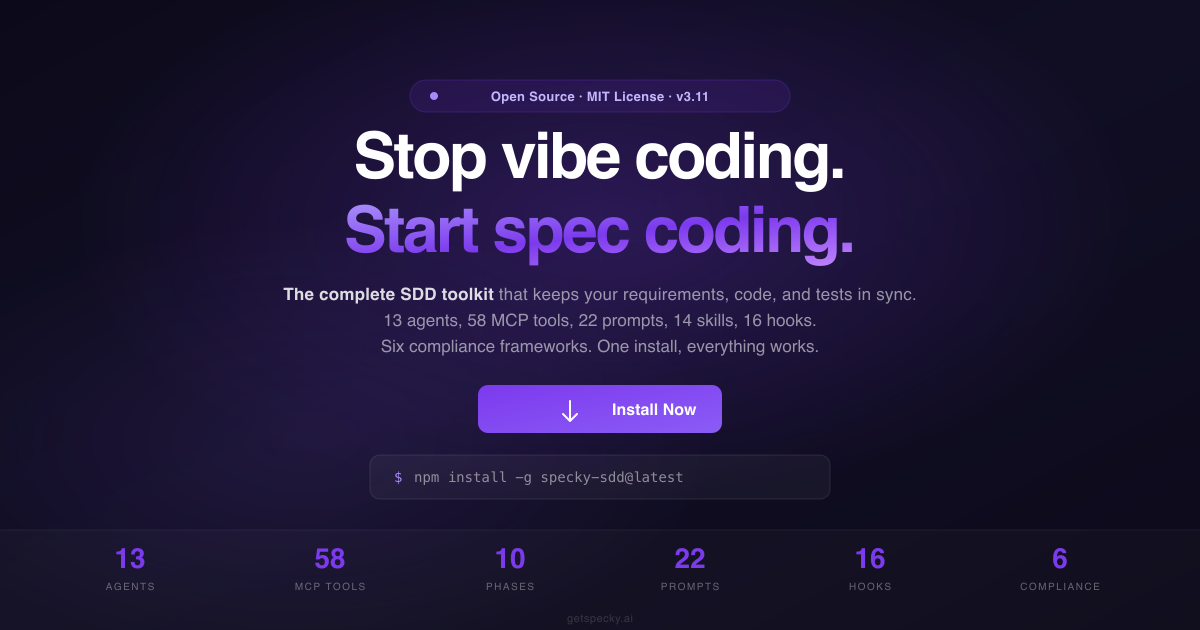
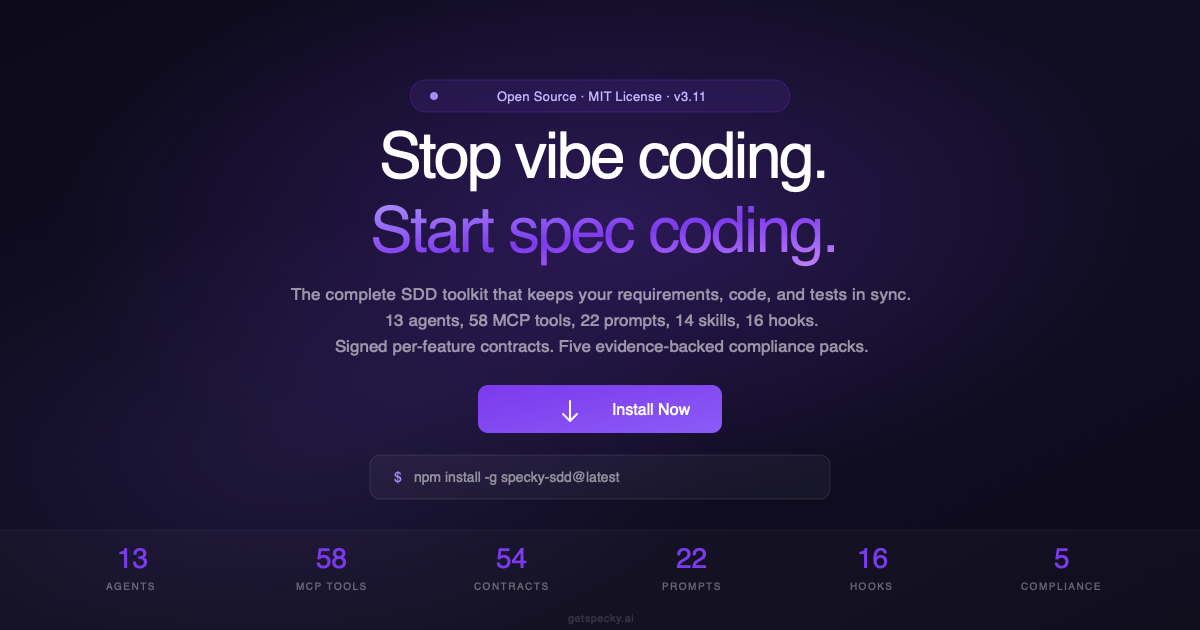
refactor: enhance diagram descriptions for clarity and accuracy in README.md

diff --git a/README.md b/README.md
@@ -839,9 +839,9 @@ All artifacts are saved in [`.specs/NNN-feature/`](#where-specifications-live). 
 
 | Tool | Description |
 |------|-------------|
-| `sdd_generate_diagram` | Single Mermaid diagram (17 software engineering diagram types) |
-| `sdd_generate_all_diagrams` | All diagrams for a feature at once |
-| `sdd_generate_user_stories` | User stories with flow diagrams |
+| `sdd_generate_diagram` | Single Mermaid diagram validated against the workload contract's required set |
+| `sdd_generate_all_diagrams` | The exact diagram set the feature contract requires, written atomically |
+| `sdd_generate_user_stories` | User stories with flow diagrams (web-application workload) |
 | `sdd_figma_diagram` | FigJam-ready diagram via Figma MCP |
 
 ### Infrastructure as Code (3)
@@ -1276,12 +1276,12 @@ deployments (enterprise profile, token auth, TLS proxy, private packages) see
 
 | Capability | Status |
 |------------|--------|
-| 58 MCP tools across 10 enforced pipeline phases | Stable |
+| 58 MCP tools driven by signed per-feature use-case contracts | Stable |
 | Unified `specky` CLI: install, doctor, status, upgrade, hooks, serve | Stable |
 | Target-specific install: `--target=copilot`, `claude`, `cursor`, `opencode`, or `agent-skills` | Stable |
 | Copilot-safe hook manifests (no lifecycle event cross-read) | Stable |
 | Phase validation on every tool with gate enforcement | Stable |
-| 17 software engineering diagram types (C4, sequence, ER, DFD, deployment, network) | Stable |
+| Workload-contracted diagram sets (C4, sequence, ER, DFD, deployment, network) | Stable |
 | 12-section system design template (C4 model, security, infrastructure) | Stable |
 | Enriched interactive responses on all tools (progress, handoff, education) | Stable |
 | Parallel documentation generation (5 types via Promise.all) | Stable |